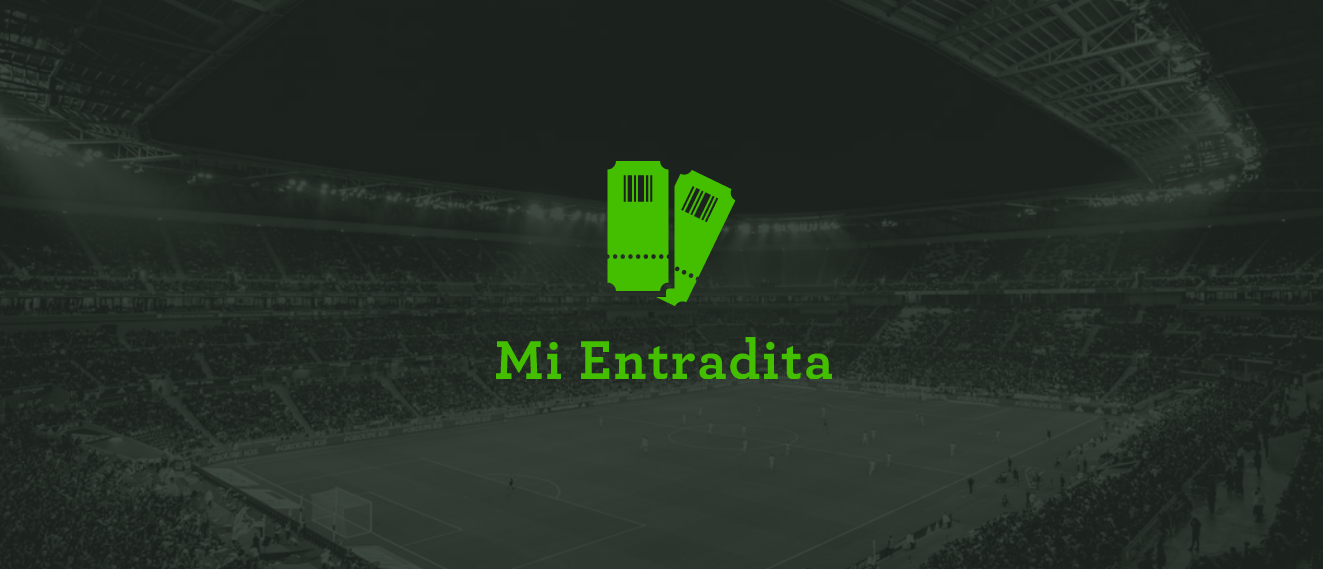
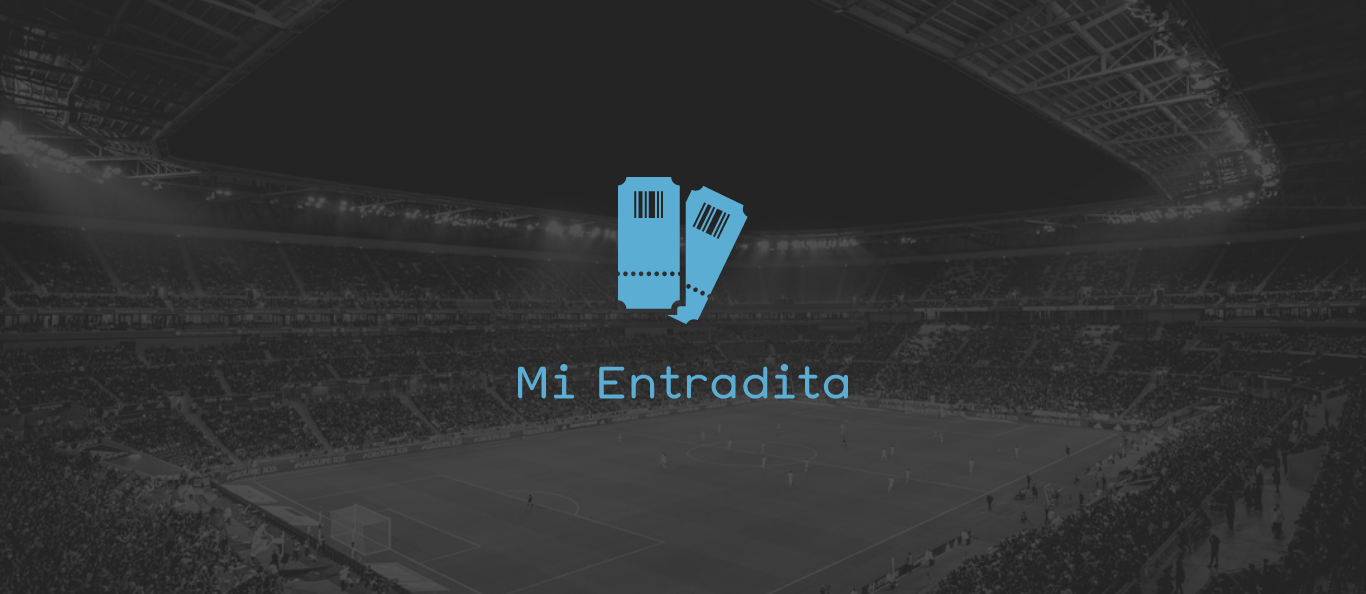
:art: cambio de color de interfaz

diff --git a/src/components/login/LogIn.jsx b/src/components/login/LogIn.jsx
@@ -1,9 +1,17 @@
-import  {
-    Avatar, CssBaseline, Box, ConfirmationNumber, 
-    Typography, ThemeProvider, Grid, Paper, Background, theme,
-    LoginForm, BackdropInherit, useState, useHistory
-
-} from './dependencies.js';
+import { useState } from 'react';
+import { useHistory } from 'react-router';
+import Avatar from '@mui/material/Avatar';
+import CssBaseline from '@mui/material/CssBaseline';
+import Box from '@mui/material/Box';
+import ConfirmationNumber from '@mui/icons-material/ConfirmationNumber';
+import Typography from '@mui/material/Typography';
+import { ThemeProvider } from '@mui/material/styles';
+import Grid from '@mui/material/Grid';
+import Paper from '@mui/material/Paper';
+import Background from '../../assets/background.png';
+import { theme } from './styles';
+import LoginForm from './LoginForm'
+import BackdropInherit from '../feedback/Backdrop';
 import * as Api from '../../helpers/ApiRest.js';
 
 function LogIn() {
@@ -75,7 +83,7 @@ function LogIn() {
                             alignItems: 'center',
                         }}
                     >
-                        <Avatar sx={{ m: 1, bgcolor: '#40C137' }}>
+                        <Avatar sx={{ m: 1, bgcolor: '#2e86c1' }}>
                             <ConfirmationNumber />
                         </Avatar>
                         <Typography

diff --git a/src/components/Scanner/QrScan.jsx b/src/components/Scanner/QrScan.jsx
@@ -1,4 +1,4 @@
-import React, { useState } from 'react';
+import { useState } from 'react';
 import { useHistory } from 'react-router';
 import QrReader from 'react-qr-reader';
 import * as Api from '../../helpers/ApiRest';
@@ -13,7 +13,6 @@ import { Alert } from '../feedback/Alert'
 import { exit } from '../../helpers/usedFunctions'
 import BackdropInherit from '../feedback/Backdrop';
 import SnackBarScan from './SnackBarScan';
-
 
 export default function QrScan() {
   const [comeIn, setComeIn] = useState(null);
@@ -75,6 +74,9 @@ export default function QrScan() {
       <Grid item xs={12} sm={8} md={5} component={Paper} elevation={6} sx={{ backgroundColor: '#212121' }}>
         <BackdropInherit open={open} />
         <Button
+          style={{
+            color: '#2e86c1'
+          }}
           onClick={() => exit(history)}
           color="primary"
           sx={{
@@ -102,6 +104,7 @@ export default function QrScan() {
           openSnackBarError={openSnackBarError}
           error={error}
           comeIn={comeIn}
+          handleCloseSnackBar={handleCloseSnackBar}
         />
       </Grid>
     </Grid >

diff --git a/src/components/login/LoginForm.jsx b/src/components/login/LoginForm.jsx
@@ -1,6 +1,11 @@
-import { Box, Button, TextField, Alert, useForm } from './dependencies'
+import { useForm } from "react-hook-form";
+import { Alert } from '@mui/material';
+import TextField from '@mui/material/TextField';
+import Button from '@mui/material/Button';
+import Box from '@mui/material/Box';
 
-function LoginForm({onSubmit,error,resetError}) {
+
+function LoginForm({ onSubmit, error, resetError }) {
     const { register, handleSubmit } = useForm();
     const username = register('username');
     const password = register('password');
@@ -34,6 +39,9 @@ function LoginForm({onSubmit,error,resetError}) {
                 {error && <Alert severity="error">{error.message}</Alert>}
             </div>
             <Button
+                style={{
+                    backgroundColor: '#2e86c1'
+                }}
                 type="submit"
                 fullWidth
                 variant="contained"

diff --git a/src/components/navigation/NavBar.jsx b/src/components/navigation/NavBar.jsx
@@ -9,12 +9,13 @@ import Logo from '../../assets/logo1.png';
 import { exit } from '../../helpers/usedFunctions'
 import LogoutIcon from '@mui/icons-material/Logout';
 
+
 export default function NavBar() {
     const history = useHistory();
    
     return (
         <Box sx={{ flexGrow: 1 }}>
-        <AppBar position='static' sx={{bgcolor: '#229954'}}>
+        <AppBar position='static' sx={{bgcolor: '#212121'}}>
             <Toolbar>
             <Avatar sx={{ m: 1, mr: 3}} src={Logo}/>
             <Typography 
@@ -28,6 +29,9 @@ export default function NavBar() {
                 Mi Entradita
             </Typography>
             <Button 
+                style={{
+                    color: '#2e86c1'
+                }}
                 onClick={() => exit(history)}
                 color="inherit"
             >

diff --git a/src/components/user/Home.jsx b/src/components/user/Home.jsx
@@ -2,9 +2,7 @@ import { useEffect, useState } from 'react';
 import { useHistory } from 'react-router';
 import * as Api from '../../helpers/ApiRest';
 import Tickets from '../Tickets';
-import NavBar from '../navigation/NavBar';
 import BackdropInherit from '../feedback/Backdrop';
-
 
 export default function Home() {
     const [tickets, setTickets] = useState(null);
@@ -25,8 +23,7 @@ export default function Home() {
     }, [history]);
 
     return (
-        <div>
-            <NavBar />
+        <>
             {(tickets === null &&
                 <BackdropInherit open={open} />)
                 ||
@@ -35,6 +32,6 @@ export default function Home() {
                     <Tickets tickets={tickets} />
                 </div>
             }
-        </div>
+        </>
     )
 }

diff --git a/src/components/Tickets/TicketsCarousel.jsx b/src/components/Tickets/TicketsCarousel.jsx
@@ -2,10 +2,12 @@ import React from 'react';
 import Carousel from 'react-material-ui-carousel';
 import Ticket from './TicketCard/TicketCard';
 import { Typography } from '@material-ui/core';
+import NavBar from '../navigation/NavBar';
 
 export default function Tickets({ tickets }) {
     return (
         <div>
+            <NavBar />
             {(tickets.length > 0 &&
                 <div style={{ marginRight: '40vh', marginLeft: '40vh', marginTop: '7vh' }}>
                     <Typography

diff --git a/src/components/Tickets/TicketCard/styles.jsx b/src/components/Tickets/TicketCard/styles.jsx
@@ -30,9 +30,9 @@ export const useStyles = makeStyles({
       justifyContent: 'center'
     },
     mainContainer: {
-      'background-color':  '#229954',
+      'background-color':  '#2e86c1',
       'display': 'grid',
-      'border-radius': '5px',
+      'border-radius': '6px',
       'justify-content': 'center'
     }
   });

diff --git a/src/components/Scanner/styles.jsx b/src/components/Scanner/styles.jsx
@@ -1,8 +1,8 @@
 import { makeStyles } from '@material-ui/core/styles';
 
 export const scannerStyle = {
-  height: '65vh',
-  width: '65vh',
+  height: '64vh',
+  width: '64vh',
 }
 
 export const useStyles = makeStyles((theme) => ({
